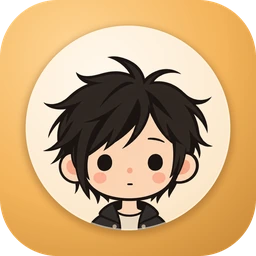
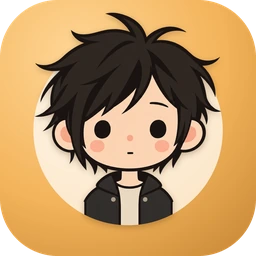
头像图标改为叠加式：头发探出内圆，双眼落在图标正中
参考豆包：内圆直径 74%，人物以双眼为视觉重心放在图标中心，内圆上半部
不裁切让头发探出，下半部由内圆底边截断身体；源图身体过短，导出前逐列向下延伸。

Claude-Session: https://claude.ai/code/session_01DxF599FULx8kT6Ch4pjp6T

diff --git a/CHANGELOG.md b/CHANGELOG.md
@@ -6,7 +6,7 @@
 ## v3.14.2 —— 补丁（x.y.Z）：头像图标改为「外框 + 内圆」，人物居中
 
 - **问题**：人物在旧图标里偏下：旧版是把去底头像直接压在琥珀圆角方块上，并靠 `margin-top: 14%`（Flutter 为底部对齐）把肩膀贴到底边，视觉重心明显偏低。
-- **修复**：参考豆包式「外框 + 内圆」：琥珀渐变圆角方块外框（圆角 22.5%），中间浅奶油色内圆（直径 80%），人物头部居中、肩膀被内圆底边裁切；由同一张 1024px 母版导出各尺寸，图标自带底色，所以各端不再叠加底色、边框、内边距或偏移。
+- **修复**：参考豆包式「外框 + 内圆」：琥珀渐变圆角方块外框（圆角 22.5%），中间浅奶油色内圆（直径 74%）；人物双眼落在图标正中，头发可以探出内圆上沿形成叠加感，身体被内圆底边截断（源图只画到肩膀，导出时把身体逐列向下延伸后再裁）；由同一张 1024px 母版导出各尺寸，图标自带底色，所以各端不再叠加底色、边框、内边距或偏移。
   - `assets/brand/` 重新导出 `avatar-128.webp`、`avatar-256.webp`、`favicon-32.png`（带圆角透明边）与 `apple-touch-icon.png`、`icon-192.png`（满版方形，交给系统裁圆角）。
   - `css/style.css` 的 `.brand-mark` 与 `admin-server/src/lib/html.js` 后台同名规则：去掉底色与图片偏移，图片铺满，圆角 22.5%，保留光晕。
   - 头像、网页标签图标引用加 `?v=20260930`，样式与脚本版本号改为 `lamp-node-20260930`，避免浏览器沿用旧图。
